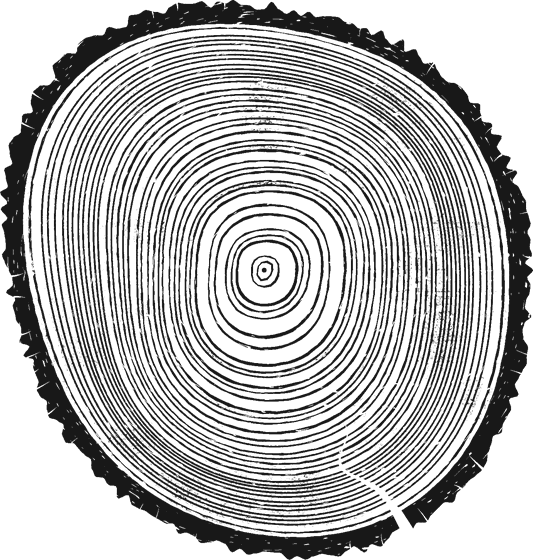
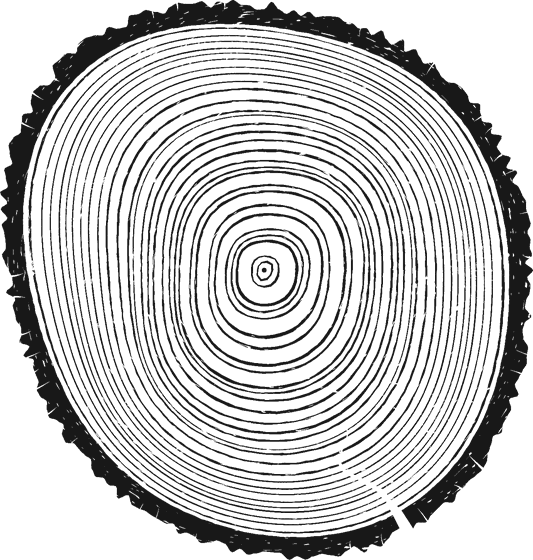
Well Rounded: no smudges, no date, an olive stone
Rings too fine to print apart were laid as a grey tone, which the press
broke into smudges (most in fine-ringed trees, so some trees had them
and some didn't): they're lines now, unevenly ruled, and the conifers'
grey latewood shading is gone. The date is no longer on the sheet. The
olive's seed is its stone alone. The choosing slices pressed again.

Claude-Session: https://claude.ai/code/session_01WhGxUDQ2nhT1B8pKnZrdq5

diff --git a/src/rings/press.ts b/src/rings/press.ts
@@ -1628,18 +1628,14 @@ function drawPrint(v: View): void {
       if (!dense[i]) continue;
       let j = i;
       while (j + 1 < n && dense[j + 1]) j++;
-      if (!ring) {
-        const r0 = barkOf(i - 1), r1 = barkOf(j);
-        g.beginPath();
-        for (let q = 0; q <= K; q++) { const a = (q / K) * TAU, [x, y] = pt(a, r1(a)); if (q) g.lineTo(x, y); else g.moveTo(x, y); }
-        for (let q = K; q >= 0; q--) { const a = (q / K) * TAU, [x, y] = pt(a, r0(a)); g.lineTo(x, y); }
-        g.closePath(); g.fillStyle = ink(conifer ? 0.26 * sp.tone : 0.14 * sp.tone); g.fill();
-      }
-      g.strokeStyle = ink(sp.line); g.lineWidth = (conifer ? 1.1 : 0.8) * px;
+      // (Lines only, never a grey tone, which the press breaks into smudges; as far apart as a hand would
+      // rule them, each its own distance and weight, so they never beat into waves.)
+      g.strokeStyle = ink(sp.line);
       let lastR = scr(meanR(i - 1));
       for (let k = i; k <= j; k++) {
         const R = scr(meanR(k));
-        if (R - lastR < (ring ? 1.9 : 2.4) * px) continue;
+        if (R - lastR < (ring ? 1.9 : 2.8 + 1.4 * h1(k * 1.37 + 0.5)) * px) continue;
+        g.lineWidth = (conifer ? 0.9 : 0.7) * (0.8 + 0.4 * h1(k * 3.7)) * px;
         lastR = R; ringPath(v, barkOf(k)); g.stroke();
       }
       i = j;
@@ -1682,17 +1678,6 @@ function drawPrint(v: View): void {
         // (The ink a little starved now and then.)
         g.fillStyle = ink((0.8 + 0.2 * h1(seed * 0.37)) * tone); g.fill();
       };
-      // (A conifer's latewood comes on gradually through its year, as the cells thicken: a soft tone
-      // before the dark band, which the press breaks to a grain.)
-      if (conifer && w > 6 * px) {
-        const soft = (k2: number) => (a: number) => outer(a) - Math.min(0.9, share * k2) * (outer(a) - inner(a));
-        for (const [k2, al] of [[2.8, 0.3], [1.8, 0.5]] as [number, number][]) {
-          g.beginPath();
-          for (let q = 0; q <= K; q++) { const a = (q / K) * TAU, [x, y] = pt(a, bandIn(a)); if (q) g.lineTo(x, y); else g.moveTo(x, y); }
-          for (let q = K; q >= 0; q--) { const a = (q / K) * TAU, [x, y] = pt(a, soft(k2)(a)); g.lineTo(x, y); }
-          g.closePath(); g.fillStyle = ink(al * tone); g.fill();
-        }
-      }
       if (live.length < 2) brick(0, TAU, i * 101);
       else for (let j = 0; j < live.length; j++) {
         // (A ray wavers a little from ring to ring, as the grain does.)
@@ -2229,7 +2214,7 @@ function drawEdition(v: View, t: number, dt: number): void {
   const midW = g.measureText(mid).width, room = v.cx + half - 22 * px - g.measureText(right).width - 12 * px;
   const midX = Math.max(v.cx - half + g.measureText(left).width + 12 * px + midW / 2, Math.min(v.cx, room - midW / 2));
   g.textAlign = 'left'; g.fillText(left, v.cx - half, y);
-  g.textAlign = 'center'; g.fillText(mid, midX, y);
+  if (printing || CHILD) { g.textAlign = 'center'; g.fillText(mid, midX, y); }
   g.textAlign = 'right'; g.fillText(right, v.cx + half - 22 * px, y);
   // The blind stamp: three rings and a heart, pressed in (a highlight above, a shadow below, no ink).
   const sx = v.cx + half - 6 * px, sy = y;
